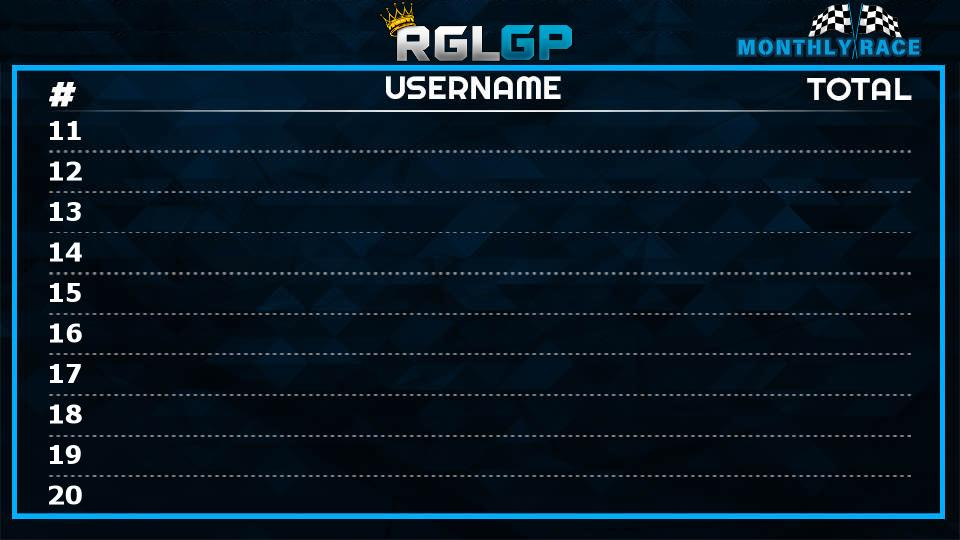
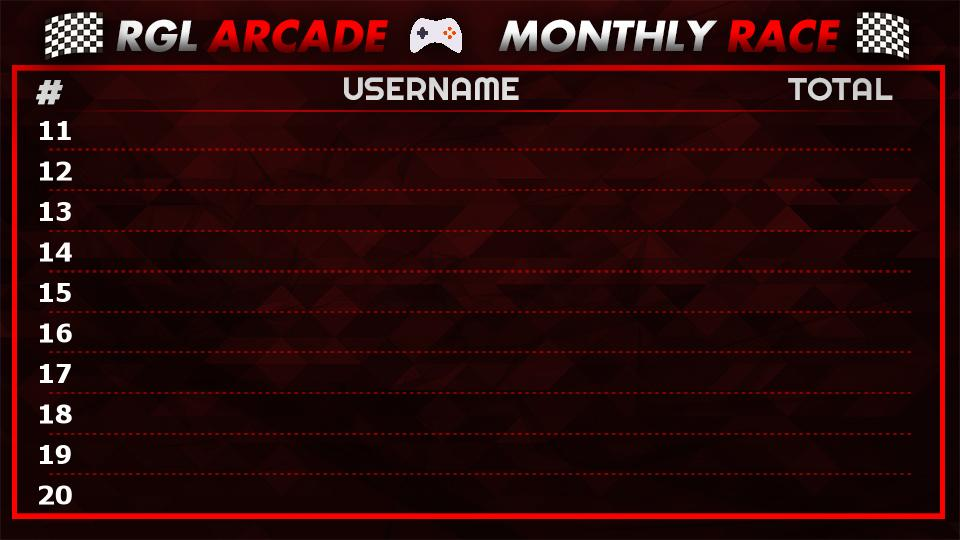
adding monthly race fixes: new design

diff --git a/commands/monthly-race/embeds/buildBoard.js b/commands/monthly-race/embeds/buildBoard.js
@@ -15,7 +15,7 @@ async function generateLeaderboardImages(users = null, client) {
 	for (let page = 0; page < 2; page++) {
 		const canvas = createCanvas(960, 540);
 		const context = canvas.getContext("2d");
-		const background = await loadImage(path.join(__dirname, "../assets/race.png"));
+		const background = await loadImage(path.join(__dirname, "../assets/race.jpg"));
 		context.drawImage(background, 0, 0, canvas.width, canvas.height);
 
 		context.font = "bold 25px verdana";
@@ -29,14 +29,14 @@ async function generateLeaderboardImages(users = null, client) {
 		for (let index = 0; index < 10; index++) {
 			const displayIndex = startIndex + index + 1;
 			const displayIndexText = `${displayIndex < 10 ? "0" : ""}${displayIndex}`;
-			context.fillText(displayIndexText, 65, y);
+			context.fillText(displayIndexText, 55, y);
 
 			const user = users[startIndex + index];
 			if (user) {
 				const userObj = await client.users.fetch(user?.discord_id);
 				if (userObj) {
-					context.fillText(userObj.username, 470, y);
-					context.fillText(`${user.total.toFixed(2)}`, 850, y);
+					context.fillText(userObj.username, 435, y);
+					context.fillText(`${user.total.toFixed(2)}`, 840, y);
 				}
 			}
 
